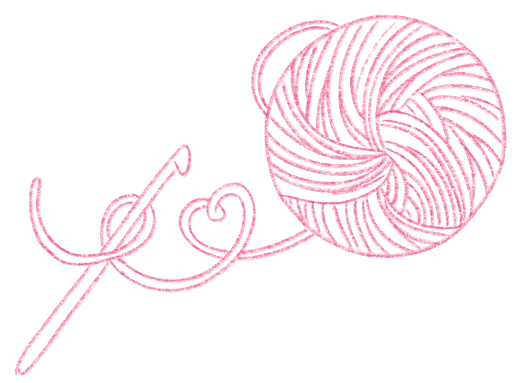
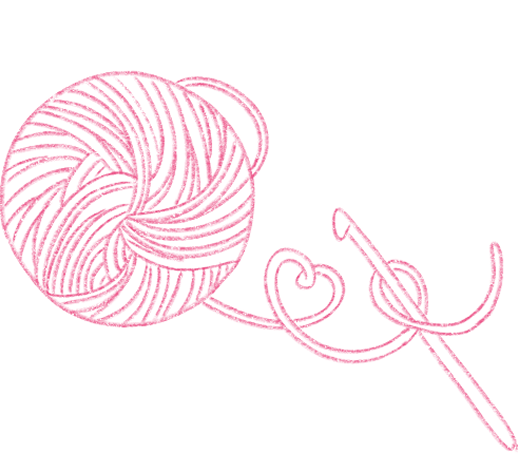
Updating design of home page

Changed region(s): [[0.0, 0.0287, 1.0, 1.0]]

diff --git a/lib/pages/home.dart b/lib/pages/home.dart
@@ -18,21 +18,71 @@ class Home extends StatelessWidget {
         centerTitle: true,
         backgroundColor: Color(0xFFDCE7FB),
       ),
-      body: Stack(
+      drawer: Drawer(
+        backgroundColor: Color(0xFFDCE7FB),
+        child: Column(
           children: [
-            Container(
-              decoration: BoxDecoration(
-                image: DecorationImage(
-                  image: AssetImage("assets/images/background.png"),
-                fit: BoxFit.cover,
-                ),
+            DrawerHeader(
+                child: Icon(
+                  Icons.favorite,
+                  size: 48,
+                )
+            ),
+            ListTile(
+              leading: Icon(Icons.home),
+              title: Text("H O M E"),
+              onTap: () {
+                Navigator.pop(context);
+                Navigator.pushNamed(context, '/home');
+              },
+            ),
+            ListTile(
+              leading: Icon(Icons.design_services),
+              title: Text("D E S I G N E R"),
+              onTap: () {
+                Navigator.pop(context);
+                Navigator.pushNamed(context, '/designer');
+              },
+            ),
+            ListTile(
+              leading: Icon(Icons.explore),
+              title: Text("E X P L O R E R"),
+              onTap: () {
+                Navigator.pop(context);
+                Navigator.pushNamed(context, '/explorer');
+              },
+            ),
+          ],
+        ),
+      ),
+      body: Stack(
+        children: [
+          Container(
+            decoration: BoxDecoration(
+              image: DecorationImage(
+                image: AssetImage("assets/images/background.png"),
+              fit: BoxFit.cover,
               ),
             ),
+          ),
+          SizedBox(height: 20),
+          Image.asset(
+            'assets/images/yarn.png',
+            width: double.infinity,
+            fit: BoxFit.fitWidth,
+          ),
+
           // Foreground content
           Center(
             child: Column(
               mainAxisAlignment: MainAxisAlignment.center,
               children: [
+                Image.asset(
+                  'assets/images/string.png',
+                  width: double.infinity,
+                  fit: BoxFit.fitWidth,
+                ),
+                SizedBox(height: 10),
                 ElevatedButton(
                   onPressed: () {
                     Navigator.pushNamed(context, '/designer');
@@ -58,31 +108,53 @@ class Home extends StatelessWidget {
                     style: TextStyle(fontSize: 35),
                   ),
                 ),
-                SizedBox(height: 200),
+                SizedBox(height: 10),
+                Row(
+                  children: [
+                    Expanded(
+                      child: Image.asset(
+                        'assets/images/crochet.png',
+                        fit: BoxFit.fitWidth,
+                      ),
+                    ),
+                    Expanded(
+                      child: Image.asset(
+                        'assets/images/knit.png',
+                        fit: BoxFit.fitWidth,
+                      ),
+                    ),
+                  ],
+                ),
                 ElevatedButton(
                   onPressed: () {
                     Navigator.pushNamed(context, '/explorer');
                   },
                   style: ElevatedButton.styleFrom(
-                      backgroundColor: Color(0xFFDCE7FB),
-                      foregroundColor: Color(0xFFEA467E),
-                      padding: EdgeInsets.symmetric(
-                          vertical: 24,
-                          horizontal: 30
-                      ),
-                      minimumSize: Size(200, 70),
-                      shape: RoundedRectangleBorder(
-                          borderRadius: BorderRadius.circular(30),
-                          side: BorderSide(
-                              color: Color(0xFFEA467E),
-                              width: 2
-                          )
+                    backgroundColor: Color(0xFFDCE7FB),
+                    foregroundColor: Color(0xFFEA467E),
+                    padding: EdgeInsets.symmetric(
+                        vertical: 24,
+                        horizontal: 30
+                    ),
+                    minimumSize: Size(200, 70),
+                    shape: RoundedRectangleBorder(
+                      borderRadius: BorderRadius.circular(30),
+                      side: BorderSide(
+                        color: Color(0xFFEA467E),
+                        width: 2
                       )
+                    )
                   ),
                   child: Text(
                     "Go to Explorer Page",
                     style: TextStyle(fontSize: 35),
                   ),
+                ),
+                SizedBox(height: 10),
+                Image.asset(
+                  'assets/images/string_flipped.png',
+                  width: double.infinity,
+                  fit: BoxFit.fitWidth,
                 ),
               ],
             ),
